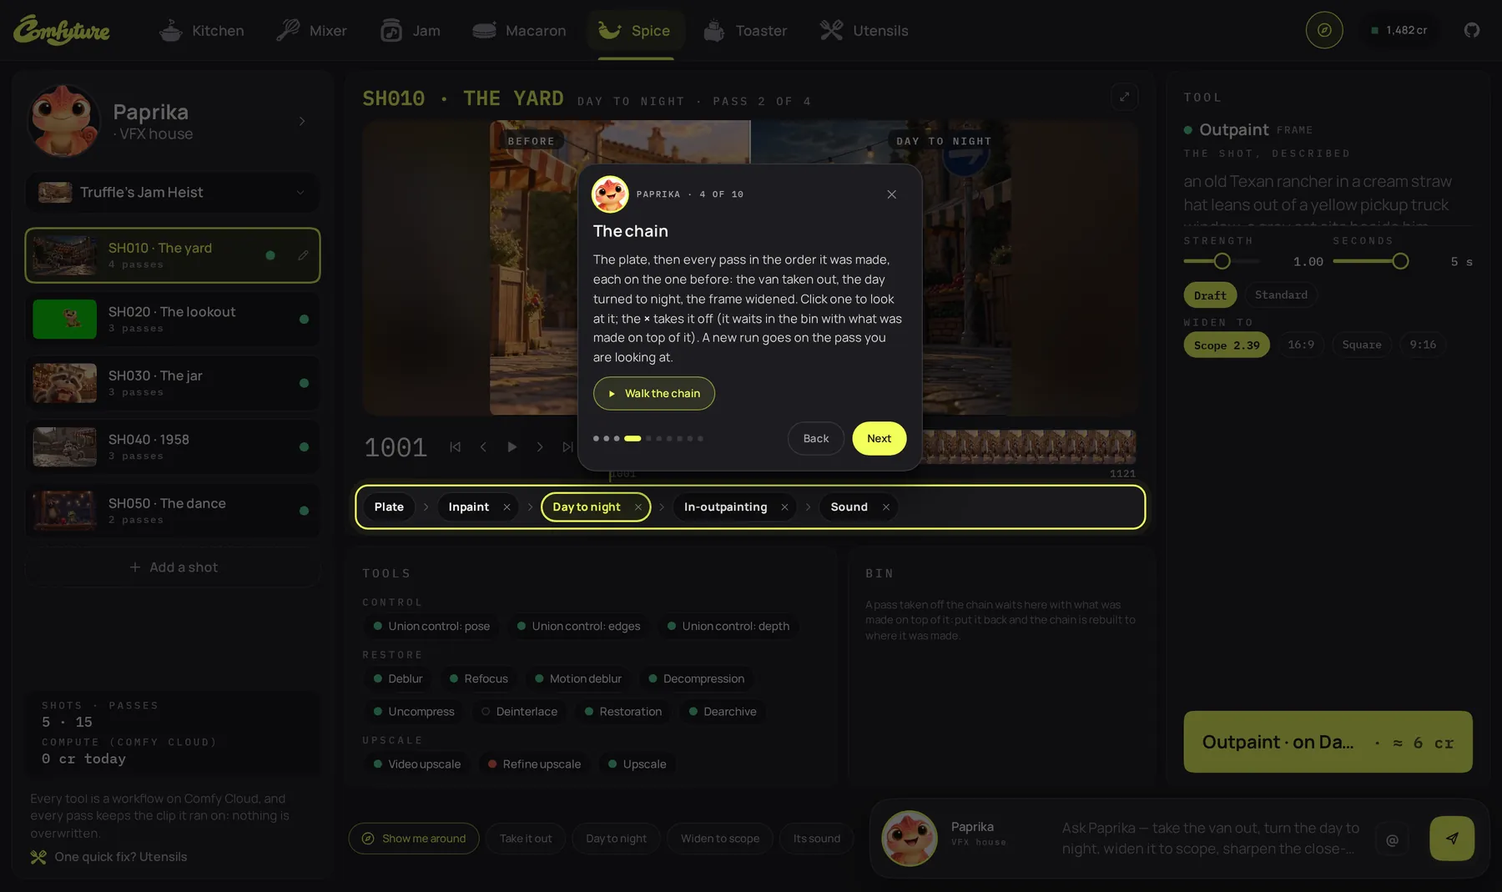
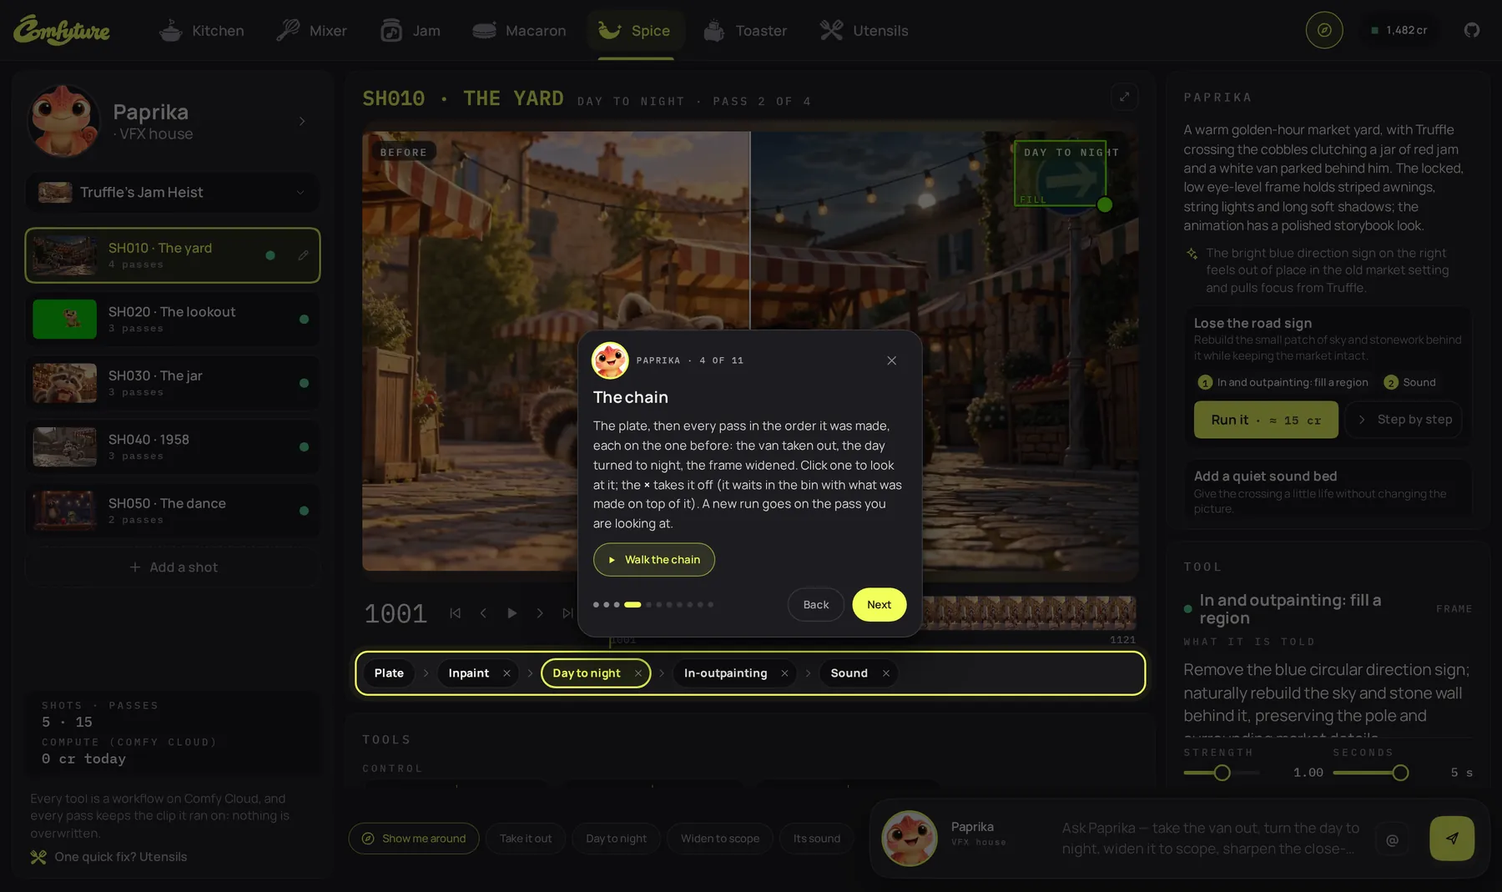
The README, the Spice doc, the judges' sheet and the site say the tools are cards with a before and after, that Paprika reads the shot and proposes chains with their price, and that a box to paint out is drawn on the viewer; the site's two Spice screens are captured again on the new layout, her read

diff --git a/www/index.html b/www/index.html
@@ -304,7 +304,7 @@
         <h2 id="spice-h" data-r>One scenario. <em>Every pass a real run.</em></h2>
       </div>
       <div>
-        <p class="lead" data-r>An AI VFX suite. A scenario of a few shots: roll one with LTX-2.5 from a first frame, or drop a clip, then run the tools on it, every one a workflow on Comfy Cloud: the IC-LoRAs of LTX-2.3 on the app's own graph, SAM3's cut-out, SeedVR2's upscale, LTX-2.5's sound, the catalog's templates. Each pass keeps the clip it ran on, so the viewer wipes between what a tool got and what it made; a pass taken off waits in the bin and goes back where it was made.</p>
+        <p class="lead" data-r>An AI VFX suite. A scenario of a few shots: roll one with LTX-2.5 from a first frame, or drop a clip, then run the tools on it, every one a workflow on Comfy Cloud: the IC-LoRAs of LTX-2.3 on the app's own graph, SAM3's cut-out, SeedVR2's upscale, LTX-2.5's sound, the catalog's templates. Each pass keeps the clip it ran on, so the viewer wipes between what a tool got and what it made; a pass taken off waits in the bin and goes back where it was made. Paprika reads a frame of the shot, says what looks off, asks what you want of it and proposes chains of passes with their price: one yes runs a chain, pass on pass.</p>
         <div class="acts" data-r><a class="btn" href="demo/#/spice">Open Spice <svg class="i"><use href="#arrow"/></svg></a></div>
       </div>
     </div>
@@ -371,11 +371,11 @@
     </div>
 
     <div class="duo">
-      <figure class="win" data-r><div class="wbar" aria-hidden="true"><i></i><i></i><i></i><span class="url mono">127.0.0.1:5177/#/spice</span></div><img src="media/app/spice.webp" width="1800" height="1069" alt="Spice on Truffle's Jam Heist: the five shots on the left, the viewer wiping SH010's plate against its last pass with the chain of passes under it, Outpaint picked with its price on the key, and the tools by family" loading="lazy" decoding="async"></figure>
+      <figure class="win" data-r><div class="wbar" aria-hidden="true"><i></i><i></i><i></i><span class="url mono">127.0.0.1:5177/#/spice</span></div><img src="media/app/spice.webp" width="1800" height="1069" alt="Spice on Truffle's Jam Heist: the five shots on the left, the viewer wiping SH010's plate against its last pass with the chain of passes under it, Paprika's read of the shot with her chains and their price, the tool picked with its words, and the tools as cards with a before and after" loading="lazy" decoding="async"></figure>
       <div class="elements" data-r>
         <h3>The suite</h3>
         <p>Restore, upscale, grade and light, clean, frame, camera, control, effects: the IC-LoRAs of LTX-2.3, run on the app's own graph with the words their cards give. Beside them SAM3's cut-out, SeedVR2's upscale, LTX-2.5's sound and the catalog's templates. Pick a tool, say what it should do, and its price is on the yellow key, which asks before it spends.</p>
-        <p class="fine">A dot on every tool says what a real run of it showed: did what its card says, did not, or needs more than a clip. Paprika sets the tools up from words: <em>take the van out</em>, <em>turn the day to night</em>, <em>widen it to scope</em>, <em>give it its sound</em>.</p>
+        <p class="fine">Every tool is a card with a picture: a frame of what a real run on our own footage was given, beside the frame it made; a dot says what that run showed: did what its card says, did not, or needs more than a clip. Paprika sets the tools up from words: <em>take the van out</em>, <em>turn the day to night</em>, <em>widen it to scope</em>, <em>give it its sound</em>; and a box to paint out is drawn on the viewer, where she places it from what she sees.</p>
       </div>
     </div>
   </div>

diff --git a/README.md b/README.md
@@ -18,7 +18,7 @@ Comfyture opens on its home: a banner that turns through its seven products and 
 - **Mixer.** Viral trends, made yours. A shelf of trends (State Property, Hotel Lobby, Smalltown Boy, Documentary…), each with its cover, its beats over time and the feel of its music, starring Mixer's crew: Praline, Sesame, Mochi and Meringue. Swap the crew around or cast your own photos (your pet, yourself) in any role, and make it: the cover is redrawn with your cast, the beats are rolled with LTX-2.5, an original track in the trend's feel is made with ACE-Step (never the trend's own song), and it is cut together with the trend's caption. Or drop any edit you like: it is split at its cuts, each shot redrawn with your cast and rolled copying the original's motion, then cut on the edit's own sound and timing.
 - **Jam.** A music video from a track, in four workspaces: the track, the words, the band and the edit. Upload a song or make one (ACE-Step 1.5, from a few words and lyrics), then pick the part: it is cut and its beat read in the browser, for free. Hearing the words is a key of its own: Comfy Cloud separates the vocals (Demucs) and writes their words with their times (Whisper), and your own lyrics can be put on the heard timings. The video is cut on the beat; where there is singing the artist (any photo: you, a character, a mascot) performs it lip-synced to the vocals, where there is none they dance (the moves of a dance video copied) or the scene plays. The words go on as captions (pop-in, karaoke, bounce, lower third). Nothing that costs credits starts by itself: each such step is a key with its estimate on it.
 - **Macaron.** Ready-to-post content for a brand, in three workspaces. Design idea holds the brief, a moodboard, the brand's story and its directions; Brand kit the palette, the logos and their colourways, type, voice, rules and products; Content the week's plan, the posts, motion and export (PNG, JPG, MP4, WebM). Every part opens in a window for its details. Sixteen templates in seven categories (product shots, motion, UGC, TikTok, ads, posters, marketplace), each shot in every format asked for (1:1, 4:5, 9:16). Video templates roll a take from each picture, a UGC one with a line LTX-2.5 says. The brand guard reads each shot's colours against the palette.
-- **Spice.** The VFX house, an AI suite: a scenario of a few shots, and on each one a chain of passes made by tools that are all workflows on Comfy Cloud. A shot's **plate** is a clip LTX-2.5 rolls from a first frame and a few words (five seconds at 720p, with its sound), or any clip dropped in. The **tools**: every in-context LoRA Comfy Cloud has for LTX-2.3, run on the app's own graph (restore: deblur, refocus, motion deblur, decompression, restoration, dearchive; upscale; grade and light: day to night, ungrade, colorization; clean: subtitles, a watermark, an object or a person gone; frame: outpaint to another shape, inpaint a region; camera: a camera move, a new angle; control: the clip redrawn under its own pose, edges or depth; effects: rain, a shave, a cross-eyed look), SAM3's **cut-out** (a green screen of what you name, its matte kept beside), SeedVR2's **upscale**, LTX-2.5's **sound** for a silent clip, Wan VACE's **restyle** and a smooth slow motion from the catalog. Each pass keeps the clip it ran on and the clip it made, and the viewer wipes between them; a pass taken off waits in the bin with what was made on top of it and goes back where it was made. A dot on every tool says what a real run of it showed; a tool that needs more than a clip (a mask, a reference sheet, a track) says so and is not offered a run. The example scenario, *Truffle's Jam Heist*, is five shots rolled from first frames drawn from the cast's sheets, then the tools chained on each: the van painted out of the plate, the day turned to night, the frame widened to scope, rain, a new angle, Pickle cut out, the missed focus pulled back, the 1958 newsreel restored and colourised, the dance redrawn under its own pose on a snowy night, and the shots given their sound. Every paid run shows its price on its yellow key, which asks on the first press and spends on the second; scenarios are kept on the server with their shots and passes.
+- **Spice.** The VFX house, an AI suite: a scenario of a few shots, and on each one a chain of passes made by tools that are all workflows on Comfy Cloud. A shot's **plate** is a clip LTX-2.5 rolls from a first frame and a few words (five seconds at 720p, with its sound), or any clip dropped in. The **tools**: every in-context LoRA Comfy Cloud has for LTX-2.3, run on the app's own graph (restore: deblur, refocus, motion deblur, decompression, restoration, dearchive; upscale; grade and light: day to night, ungrade, colorization; clean: subtitles, a watermark, an object or a person gone; frame: outpaint to another shape, inpaint a region; camera: a camera move, a new angle; control: the clip redrawn under its own pose, edges or depth; effects: rain, a shave, a cross-eyed look), SAM3's **cut-out** (a green screen of what you name, its matte kept beside), SeedVR2's **upscale**, LTX-2.5's **sound** for a silent clip, Wan VACE's **restyle** and a smooth slow motion from the catalog. Each pass keeps the clip it ran on and the clip it made, and the viewer wipes between them; a pass taken off waits in the bin with what was made on top of it and goes back where it was made. The tools are cards with a picture: a frame of what a real run on our own footage was given beside the frame it made; a dot says what that run showed, and a tool that needs more than a clip (a mask, a reference sheet, a track) says so and is not offered a run. **Paprika reads the shot**: shown one frame of it, she says what it is and what looks off, asks what you want of it, and proposes chains of passes with their price, each a few tools in order with their words; one yes runs a chain, pass on pass, or the first step is set up on the tool card to run by hand. A tool that fills a box (Inpaint) draws it on the viewer, where it is dragged over what to paint out, and Paprika places it from what she sees. The example scenario, *Truffle's Jam Heist*, is five shots rolled from first frames drawn from the cast's sheets, then the tools chained on each: the van painted out of the plate, the day turned to night, the frame widened to scope, rain, a new angle, Pickle cut out, the missed focus pulled back, the 1958 newsreel restored and colourised, the dance redrawn under its own pose on a snowy night, and the shots given their sound. Every paid run shows its price on its yellow key, which asks on the first press and spends on the second; scenarios are kept on the server with their shots and passes.
 - **Toaster.** Clay in, toast out: an object blocked out in 3D, then rendered and made a real 3D model. On the left the object's **parts**, ten shapes to add (box, cylinder, sphere, cone, pyramid, wedge, torus, capsule, dome, tube) and the Stage's whole **library** (its 370-odd pieces of furniture, objects, food, products, studio gear, vehicles, creatures and your own imported props, searched by name or theme), each piece a part like the shapes: a part added while another is selected sits on top of it, and the part selected is sized, placed and turned by numbers or by the gizmo (move, turn, size, with a snap), rounded or thickened, given a clay colour and what it is made of ("brushed chrome", "walnut"). Duplicate, mirror to the other side, drop to the floor, frame, a view from the front, side, back or top, Shift to select several, and undo for all of it. In the middle the viewport, the frame of the render drawn over it. A switch on the project bar (or T) turns the page to **Render**: the render studio takes the middle and the viewport, small and live, moves to the right with the cameras under it, so you pick the camera there and render from it. The studio holds the picture (or the clay as Toaster will send it), the renders' strip, and the words as pills: what it is, the scene and the prompt, where @desk or @mia names a part. Each part has a **sheet**, in Selected: its words (what it is, its material, its make; for a character age, face, hair, clothes) and up to six pictures, from a file, a paste or the Library; references for the whole picture (a style, a mood, a place) go on the studio's References row. **Toast it** renders the clay frame as it is framed (the clay is the layout, kept by an image edit) with the control maps, the references and each part's pictures named by its tag, and a prompt that says which clay colour is which part and expands each tag with its sheet; **Improve** has the writer rewrite that prompt from your words, the parts' sheets, the clay frame and the pictures, and the prompt can be edited by hand. On the right what was toasted: the **render** (earlier ones in a strip, each shown from its own camera; a wipe against the clay; full size, a shot from it, download). The **3D** page (D) makes the objects real **one at a time**, in the list's order: for each object an image model (Nano Banana 2.1 unless you pick another) draws its own four-view sheet from its clay alone, seen from a little above (a mug's handle shows only where its clay shows it), the sheet is cut into front, back, left and right, and Trellis2 (a shape generator, a shape refiner and four-view texturing, kept in `workflows/3d/`) makes a textured model on your own ComfyUI (a hosted copy makes it with Pixal3D on Comfy Cloud), and only then comes the next object; two objects alike get two sheets, as variations. The finished models stand in a **new scene**, each where its clay was, to download as one GLB or to put on the Stage as props. Crumpet, Toaster's pet, builds with you from his bar under the viewport: he is told every part as a place on the floor in metres (where it stands, the height of its bottom, its turn, its size) and the camera, and answers by bringing pieces, characters and shapes, setting them down, turning, sizing and colouring them, placing the camera and writing the render's words, from a description or from a photo you attach (he rebuilds its layout and matches its camera); his build is one step that Undo takes back, and a render he offers waits for your yes with its price. Projects are kept on the server with their parts, cameras, words, sheets and everything toasted from them, open as tabs over the page as the Stage's are (a lamp says when each was saved; Ctrl+S saves now), with Your projects, Save a copy, Export and Import of a project file, and Delete.
 - **Utensils.** A shelf of single tools, one input and one result each: upscale (4x-UltraSharp), remove the background (a clear PNG), variations, an edit in words, extend a clip, lip-sync a photo to a voice, add sound to any clip (LTX-2.5), upscale a video (SeedVR2), music and sound effects.
 

diff --git a/docs/SPICE.md b/docs/SPICE.md
@@ -7,6 +7,9 @@ Spice is the VFX house of Comfyture, run by Paprika. It was rebuilt on 26 Octobe
 - A **scenario** is a few shots. Each **shot** is its **plate** (a clip LTX-2.5 rolls from a first frame and a few words, five seconds at 720p with its sound; or any clip dropped in) and the **chain** of passes the tools made on it, each on the one before.
 - A **pass** keeps the clip it ran on and the clip it made; the viewer wipes between them. A new run goes on the pass you are looking at, so a chain can branch: the passes that were on top go to the **bin**, and a take put back rebuilds the chain to where it was made. Nothing is overwritten, every clip stays in the library.
 - Every run shows its price on its yellow key, which asks on the first press and spends on the second. Paprika sets things up from words; the person presses the key.
+- **Paprika's read** (`POST /api/spice/read`): one frame of the shot open goes to the assistant model with the shot's words and the tools by id; she answers through the `spice_read` tool (`server/spice-assist.ts`) with what the shot is, what looks off, a question, and two or three chains, each two to five steps of a tool, its words, its size, the box it fills or the aspect it widens to. The page keeps the read with the shot (`shot.read`) and shows the chains as cards with their price: **Run the N** runs them one on the other with one yes (the key asks first); **Step by step** sets the first step up on the tool card. A chain she answers in the bar with comes to the same cards. The example ships her read of each shot (`scripts/spice-example-reads.mjs`).
+- **The tools' pictures**: every card shows a frame of what a real run was given beside the frame it made (`web/brand/spice/previews/<tool>.jpg`, made by `scripts/spice-previews.mjs` from the example's passes and one draft run of every other tool on the plate that suits it, 119 credits in all); a tool with no run yet, or whose run failed, says so on its card.
+- **The box**: a tool that fills a region (Inpaint) draws its box on the viewer in the LoRA's green; a drag moves it, its corner sizes it, and the tool card says where it is. Paprika places it from the frame she saw.
 
 ## The tools (`GET /api/spice/tools`, `server/spice.ts`)
 
@@ -15,8 +18,8 @@ Spice is the VFX house of Comfyture, run by Paprika. It was rebuilt on 26 Octobe
 | Restore | Deblur, Refocus, Motion deblur, Decompression, Uncompress, Restoration, Dearchive, Deinterlace | IC-LoRA of LTX-2.3 on the app's own graph (`workflows/ic-lora.json`) |
 | Upscale | Video upscale, Refine upscale (failed on a real run), **Upscale** (SeedVR2, the app's own graph: 720, 1080, 1440) | IC-LoRA; engine |
 | Grade and light | Day to night, Ungrade, Colorization, Colorizer | IC-LoRA |
-| Clean | Subtitles, Watermark, Obscura (an object or a person gone), Clean plate and Edit anything (failed) | IC-LoRA |
-| Frame | Outpaint (to scope, 16:9, square, 9:16: the clip padded, the LoRA draws the new area, the footage merged back), In-outpainting, Inpaint (a region) | IC-LoRA with the clip made ready on this machine |
+| Clean | Subtitles, Watermark, Obscura (a thing in front of the lens gone; it failed on a prop in the scene), Clean plate (the frog gone from its crate), Edit anything (a scarf put on) | IC-LoRA |
+| Frame | Outpaint (the clip padded black: the pad stayed black on our footage, so it is marked failed), In-outpainting (the official LoRA: a green canvas, drawn; the one to widen with, to scope, 16:9, square, 9:16, the footage merged back), Inpaint (a box of the frame) | IC-LoRA with the clip made ready on this machine |
 | Camera | Cameraman (a camera move), Crossview (a new angle), Any trajectory (needs a track) | IC-LoRA |
 | Control | Union control: pose, edges, depth (the clip redrawn under its own motion from new words) | IC-LoRA |
 | Effects and edits | Water (rain), Shave, Cross-eyed, **Restyle** (Wan VACE, a template of the catalog) | IC-LoRA; template |
@@ -38,14 +41,14 @@ Our own scenario, our own cast. The five first frames were drawn with Codex's GP
 - **SH040 · 1958**: the first heist as a scratched newsreel. Restoration; Colorization; Upscale.
 - **SH050 · The dance**: the two on the counter at dusk. Union control: pose (the same dance redrawn on a snowy night); Sound. (Wan VACE's Restyle ran too and gave the clip back as it was: it is in the suite with a red dot.)
 
-Every pass in the example is a real run; the manifest of what each cost is kept with the work folder, and the example counts nothing as spent. What did not work is on record too: Obscura, asked for the van, took the jar instead (its card says it removes from the foreground), and asked for the road sign it turned the raccoon into a bird; Inpaint, given the sign's region three times (a strip, then the whole right fifth of the frame), drew the sign back each time; Outpaint's black pad stayed black at 2.39:1 where In-outpainting's green pad was drawn; and the first Day to night, told of warm bulbs and pools of light, stayed golden hour until it was given its card's own words at strength 1.3.
+Every pass in the example is a real run; the manifest of what each cost is kept with the work folder, and the example counts nothing as spent. What did not work is on record too, on the cards' notes: Obscura, asked for the van, took the jar instead (its card says it removes from the foreground), asked for the road sign it turned the raccoon into a bird, and asked for the jar between the dancers it left it and moved the raccoon; Inpaint, given the sign's region three times (a strip, then the whole right fifth of the frame), drew the sign back each time; Outpaint's black pad stayed black at 2.39:1 and at square where In-outpainting's green pad was drawn; and the first Day to night, told of warm bulbs and pools of light, stayed golden hour until it was given its card's own words at strength 1.3. The previews' runs also turned two cards green: Clean plate took the frog off its crate in a wide shot, and Edit anything put a red scarf on the raccoon as asked (and turned him to the camera with it).
 
 ## The code
 
-- `web/js/spice-model.js`: the rules (a scenario kept, the chain, the bin, the prices). `web/js/spice.js`: the state and the store (`spice-scenarios`). `web/js/spice-tools.js`: the registry on the page, the tool picked, the run, the TOOL, TOOLS and BIN bentos. `web/js/spice-viewer.js`: the viewer with its wipe and the chain. `web/js/panels/spice.js`: the screen, the shots, the windows. `web/js/spice-engines.js`: jobs, the LTX shot, clips brought in. `web/js/spice-assist.js` + `server/spice-assist.ts`: Paprika. `web/js/tours/spice.js`: the tour. `web/css/sp-shell.css`, `sp-viewer.css`, `sp-suite.css`, `sp-win.css`.
-- `server/spice.ts`: the registry, the run route, the example seeder. `server/iclora.ts`: the IC-LoRA graph.
+- `web/js/spice-model.js`: the rules (a scenario kept, the chain, the bin, the prices). `web/js/spice.js`: the state and the store (`spice-scenarios`). `web/js/spice-tools.js`: the registry on the page, the tool picked, the run, the TOOL, TOOLS and BIN bentos. `web/js/spice-viewer.js`: the viewer with its wipe and the chain. `web/js/panels/spice.js`: the screen, the shots, the windows. `web/js/spice-engines.js`: jobs, the LTX shot, clips brought in. `web/js/spice-guide.js`: Paprika's read, her chain cards, a chain run with one yes. `web/js/spice-assist.js` + `server/spice-assist.ts`: Paprika in the bar, and her read. `web/js/tours/spice.js`: the tour. `web/css/sp-shell.css`, `sp-viewer.css`, `sp-suite.css`, `sp-win.css`.
+- `server/spice.ts`: the registry (with each tool's preview and, for one that fills a box, its default box), the run route, the read route, the example seeder. `server/iclora.ts`: the IC-LoRA graph. `scripts/spice-previews.mjs`: the tools' pictures. `scripts/spice-example-reads.mjs`: the example's reads.
 - Tests: `tests/spice.test.ts`, `tests/spice-assist.test.ts`, `tests/iclora.test.ts`, `tests/iclora-judge.test.ts`; in a browser, `tests/spice.browser.mjs` and `tests/spice-laptop.browser.mjs`.
 
 ## Not yet
 
-A mask drawn on the viewer for Inpaint (it takes a region by numbers), the tools that need a reference sheet or a track, a reference picture for a partner relight, and the local (self-hosted) version of the graphs.
+A free-form mask for Inpaint (it takes a box, drawn on the viewer), the tools that need a reference sheet or a track, a reference picture for a partner relight, and the local (self-hosted) version of the graphs.

diff --git a/docs/competition/JUDGES.md b/docs/competition/JUDGES.md
@@ -42,7 +42,7 @@ npm start            # then open http://127.0.0.1:5177
 |---|---|---|
 | **Kitchen** · Ketkout the chick | Stage → *Morning kitchen*: keys 1–7 show the clay as colour ID, depth, normal, pose, lines, mask; pose a mannequin; *Render references*. On Kitchen's home, one sentence and *Imagine* writes a film. | Stage free; writing and rolling cost |
 | **Toaster** · Crumpet the beaver | Press the compass for Crumpet's tour: he builds a set in clay, free. Ask him for *"a cosy reading corner, camera low"* and watch him build it; *Render* shows what is sent; *Toast it* renders it; *3D* makes each object real, one at a time (its own four-view sheet, then its own model), into a new scene. | Building by hand and the tour free; his answers, toast and 3D cost |
-| **Spice** · Paprika the chameleon | *Truffle's Jam Heist* (opens first): the five shots on the left, the chain of passes under the viewer (drag the wipe: what each tool ran on against what it made), the tools by family with a dot for what a real run showed; pick one and its price is on the key. **Show me around** walks the scenario for free. | Looking is free; every tool is a paid run on Comfy Cloud (an IC-LoRA draft is a few credits, a standard run about six a second, an LTX-2.5 shot about 24), and the key asks first |
+| **Spice** · Paprika the chameleon | *Truffle's Jam Heist* (opens first): the five shots on the left, the chain of passes under the viewer (drag the wipe: what each tool ran on against what it made), the tools as cards with a before-and-after from a real run and a dot for what it showed; pick one and its price is on the key. **Paprika** reads a frame of the shot open, says what looks off and proposes chains of passes with their price (Run the N: one yes, pass on pass). **Show me around** walks the scenario for free. | Looking is free; every tool is a paid run on Comfy Cloud (an IC-LoRA draft is a few credits, a standard run about six a second, an LTX-2.5 shot about 24), and the key asks first |
 | **Jam** · Pickle the frog | Open the example video and play the track: the beat and the sections are read in your browser; *The song*: a shelf of our own songs made with ACE-Step; *The Words*: caption styles; *The Edit*: the cut on the beat. | Free; songs and performances cost |
 | **Mixer** · Praline the cat | Pick a trend, swap the crew around, read its beats; *Make it* rolls it with LTX-2.5. | *Make it* costs |
 | **Macaron** · Brioche the bunny | The Comfyture brand: palette, logos, type, rules, the brand book; ask Brioche for a colourway. | Kit free; pictures and motion cost |
